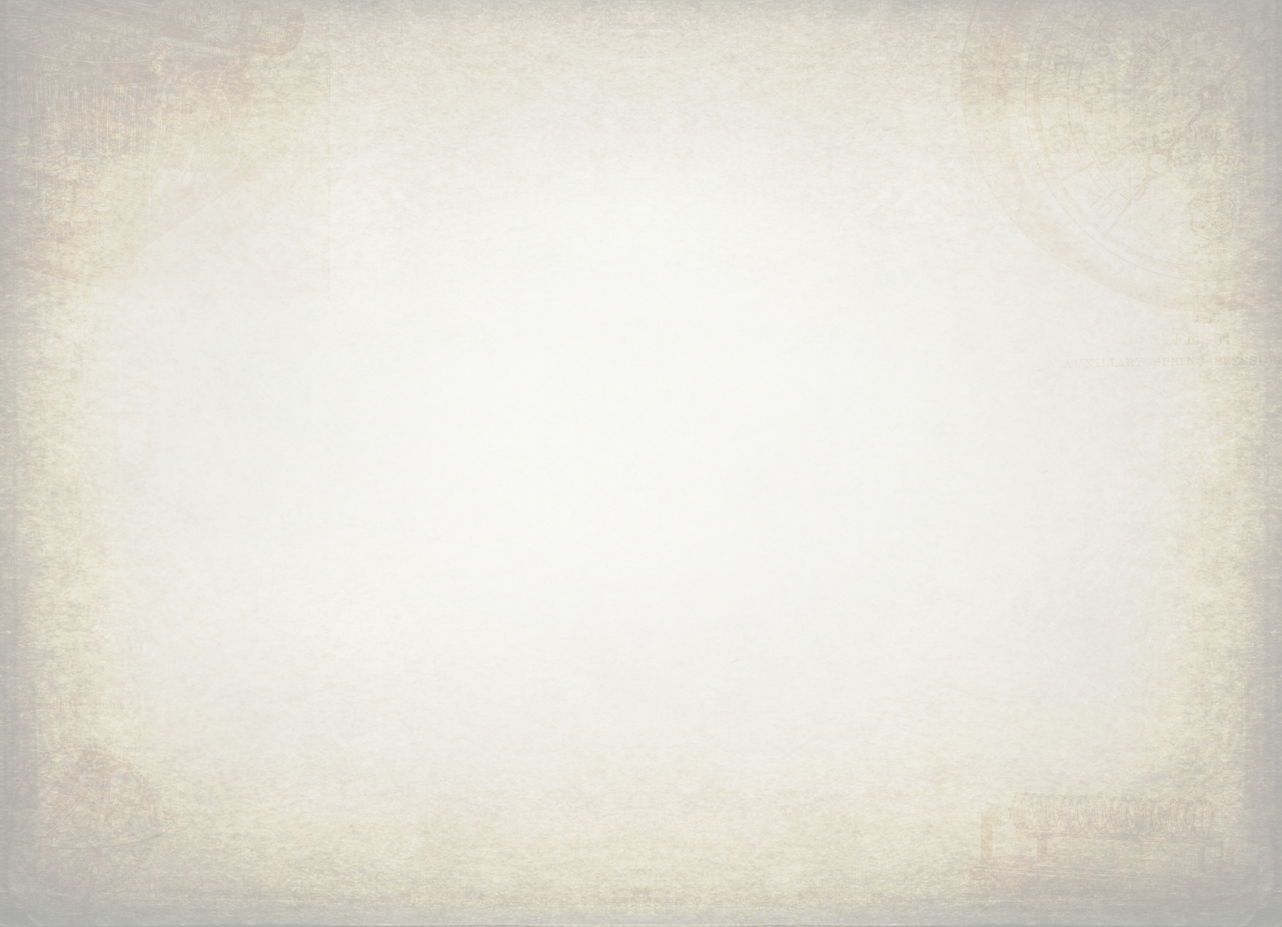
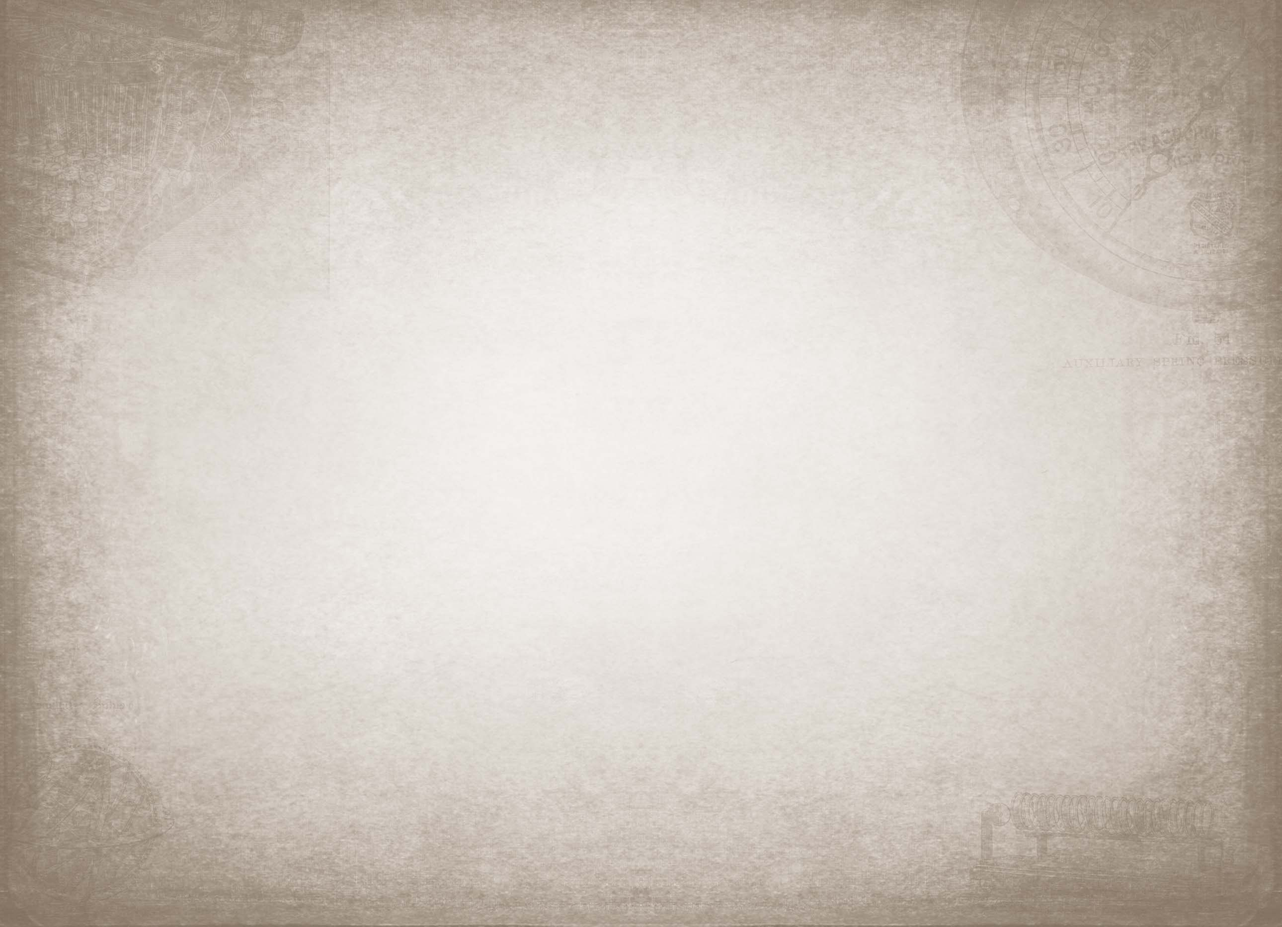
style tweaks in org.html, compressed backgrounds, steampunk leisure button

diff --git a/www/org.html b/www/org.html
@@ -53,6 +53,7 @@
                 }
                 .pagecontent {
                         padding: 120px 100px;
+                        overflow: visible;
                 }
                 body {
                         /*background-image: url(images/steampunk_background.jpg);*/
@@ -342,8 +343,8 @@
                 }
                 .slides .org-fancy [data-org-headline='1'] > [data-org-type='text'] {
                         position: absolute;
-                        left: 0;
-                        width: 100%;
+                        left: 10;
+                        width: 90%;
                         /*top: 8px;*/
                         top: 36px;
                         text-align: center;
